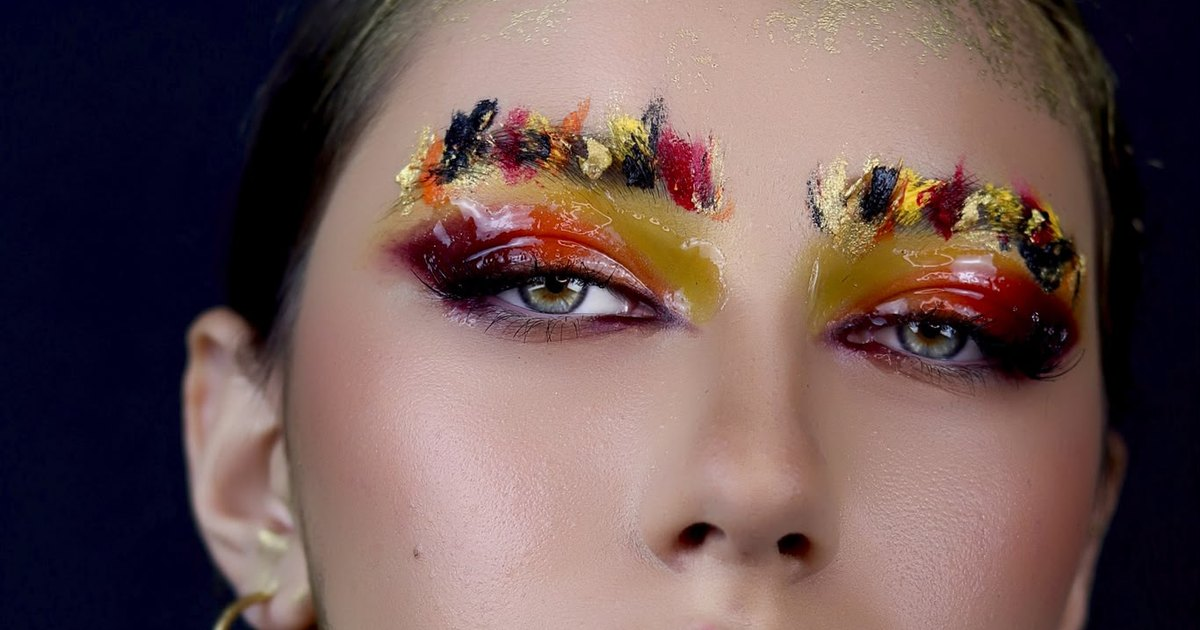
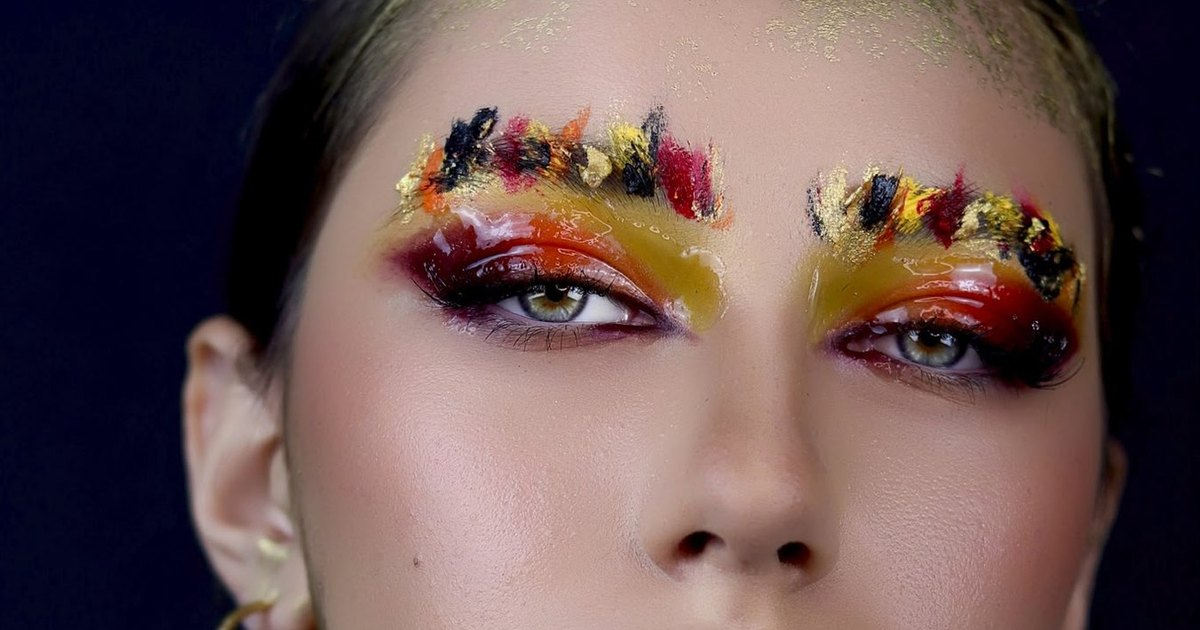
Dar nombre nuevo a la portada y al retrato para evitar el choque en Medios
Seguían viéndose las fotos antiguas. La causa está en cómo funciona la
biblioteca de Medios de WordPress: hero.jpg y chio-retrato.jpg ya existían
allí con las versiones viejas, y al subir las nuevas con el mismo nombre
WordPress no las sustituye, las renombra a hero-1.jpg. La web sigue pidiendo
hero.jpg y recibe la antigua. Las cachés del hosting y del navegador agravan
lo mismo.

En lugar de pedir que se borren primero las viejas, que es un paso fácil de
olvidar y que hay que repetir en cada cambio, los dos archivos pasan a
llamarse portada-cejas.jpg y chio-retrato-2.jpg. Al ser nombres que no
existen en Medios no hay colisión posible ni caché que valga.

og.jpg se regenera desde la portada nueva, aunque el widget no la use: solo
interviene al compartir el enlace.

Comprobado: 27 imágenes, ninguna rota, ninguna respuesta 404.

Claude-Session: https://claude.ai/code/session_015kKFozXrmoXRNnK9ynXBAw

diff --git a/chio-jimenez/wordpress/chio-jimenez-elementor-lienzo.html b/chio-jimenez/wordpress/chio-jimenez-elementor-lienzo.html
@@ -660,8 +660,8 @@ html{ overflow-x:clip; }
 
   <!-- ============ HERO ============ -->
   <section class="hero" id="top">
-    <figure class="hero__media ph" data-ph="hero.jpg">
-      <img data-cj="hero.jpg" alt="Chío Jiménez peinando a una novia el día de la boda" decoding="async" fetchpriority="high" onerror="this.closest('.ph').classList.add('is-empty');this.remove()">
+    <figure class="hero__media ph" data-ph="portada-cejas.jpg">
+      <img data-cj="portada-cejas.jpg" alt="Chío Jiménez peinando a una novia el día de la boda" decoding="async" fetchpriority="high" onerror="this.closest('.ph').classList.add('is-empty');this.remove()">
     </figure>
     <div class="hero__inner">
       <p class="eyebrow reveal" data-i18n="hero.eyebrow">Maquilladora profesional · Directora de Escuma Granada</p>
@@ -686,8 +686,8 @@ html{ overflow-x:clip; }
   <section class="section" id="sobre-mi">
     <div class="wrap about">
       <div class="about__media">
-        <figure class="ph ph--portrait reveal" data-ph="chio-retrato.jpg">
-          <img data-cj="chio-retrato.jpg" alt="Chío Jiménez, maquilladora profesional" loading="lazy" decoding="async" onerror="this.closest('.ph').classList.add('is-empty');this.remove()">
+        <figure class="ph ph--portrait reveal" data-ph="chio-retrato-2.jpg">
+          <img data-cj="chio-retrato-2.jpg" alt="Chío Jiménez, maquilladora profesional" loading="lazy" decoding="async" onerror="this.closest('.ph').classList.add('is-empty');this.remove()">
         </figure>
         <ul class="facts reveal">
           <li><strong>2008</strong><span data-i18n="facts.start">Inicio de trayectoria</span></li>

diff --git a/chio-jimenez/index.html b/chio-jimenez/index.html
@@ -105,8 +105,8 @@
 
   <!-- ============ HERO ============ -->
   <section class="hero" id="top">
-    <figure class="hero__media ph" data-ph="hero.jpg">
-      <img src="assets/img/hero.jpg" alt="Chío Jiménez peinando a una novia el día de la boda" decoding="async" fetchpriority="high" onerror="this.closest('.ph').classList.add('is-empty');this.remove()">
+    <figure class="hero__media ph" data-ph="portada-cejas.jpg">
+      <img src="assets/img/portada-cejas.jpg" alt="Chío Jiménez peinando a una novia el día de la boda" decoding="async" fetchpriority="high" onerror="this.closest('.ph').classList.add('is-empty');this.remove()">
     </figure>
     <div class="hero__inner">
       <p class="eyebrow reveal" data-i18n="hero.eyebrow">Maquilladora profesional · Directora de Escuma Granada</p>
@@ -131,8 +131,8 @@
   <section class="section" id="sobre-mi">
     <div class="wrap about">
       <div class="about__media">
-        <figure class="ph ph--portrait reveal" data-ph="chio-retrato.jpg">
-          <img src="assets/img/chio-retrato.jpg" alt="Chío Jiménez, maquilladora profesional" loading="lazy" decoding="async" onerror="this.closest('.ph').classList.add('is-empty');this.remove()">
+        <figure class="ph ph--portrait reveal" data-ph="chio-retrato-2.jpg">
+          <img src="assets/img/chio-retrato-2.jpg" alt="Chío Jiménez, maquilladora profesional" loading="lazy" decoding="async" onerror="this.closest('.ph').classList.add('is-empty');this.remove()">
         </figure>
         <ul class="facts reveal">
           <li><strong>2008</strong><span data-i18n="facts.start">Inicio de trayectoria</span></li>

diff --git a/chio-jimenez/wordpress/chio-jimenez-widget-sin-cabecera.html b/chio-jimenez/wordpress/chio-jimenez-widget-sin-cabecera.html
@@ -636,8 +636,8 @@ html{ overflow-x:clip; }
 
   <!-- ============ HERO ============ -->
   <section class="hero" id="top">
-    <figure class="hero__media ph" data-ph="hero.jpg">
-      <img data-cj="hero.jpg" alt="Chío Jiménez peinando a una novia el día de la boda" decoding="async" fetchpriority="high" onerror="this.closest('.ph').classList.add('is-empty');this.remove()">
+    <figure class="hero__media ph" data-ph="portada-cejas.jpg">
+      <img data-cj="portada-cejas.jpg" alt="Chío Jiménez peinando a una novia el día de la boda" decoding="async" fetchpriority="high" onerror="this.closest('.ph').classList.add('is-empty');this.remove()">
     </figure>
     <div class="hero__inner">
       <div class="lang" role="group" aria-label="Idioma / Language">
@@ -667,8 +667,8 @@ html{ overflow-x:clip; }
   <section class="section" id="sobre-mi">
     <div class="wrap about">
       <div class="about__media">
-        <figure class="ph ph--portrait reveal" data-ph="chio-retrato.jpg">
-          <img data-cj="chio-retrato.jpg" alt="Chío Jiménez, maquilladora profesional" loading="lazy" decoding="async" onerror="this.closest('.ph').classList.add('is-empty');this.remove()">
+        <figure class="ph ph--portrait reveal" data-ph="chio-retrato-2.jpg">
+          <img data-cj="chio-retrato-2.jpg" alt="Chío Jiménez, maquilladora profesional" loading="lazy" decoding="async" onerror="this.closest('.ph').classList.add('is-empty');this.remove()">
         </figure>
         <ul class="facts reveal">
           <li><strong>2008</strong><span data-i18n="facts.start">Inicio de trayectoria</span></li>
